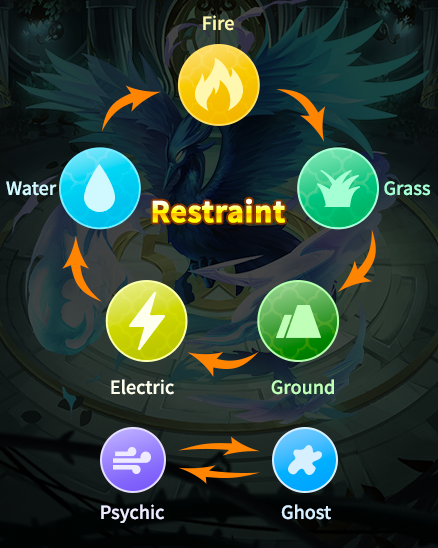
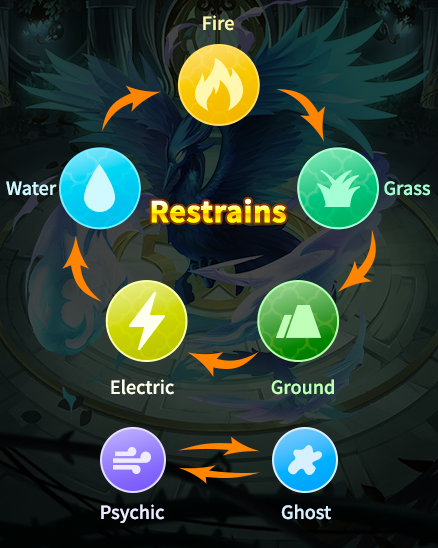
GitBook: [#192] No subject

Changed region(s): [[0.3265, 0.3412, 0.653, 0.4343]]

diff --git a/elf-gallery/feature-information.md b/elf-gallery/feature-information.md
@@ -1,7 +1,7 @@
 # Feature Information
 
-Elf is a new species of NFT based on the ERC-721 protocol. Some elves live in harmony with humans, and some live in the mountains. One of their main characteristics is that they can be subdued by elfball so that they can be carried with them. The exact number of elves is unknown, there are hundreds of species currently known, and more elves will be discovered in the future. Each kind of elf can hatch more than one according to the ID number.
+Elves are a new species of NFT based on the ERC-721 protocol. Some elves live in harmony with humans, others inhabit the mountains and wilderness, and one of their main features is that they can be taken in by an Elfball, allowing them to be carried around with them. The exact number of elves is unknown. There are several hundred known species, and more will be discovered in the future.&#x20;
 
-When the Elf World was first released, a total of 8,000 creation elves will be generated in the form of blind boxes. In addition, 1,000 creation elves can be captured in the wild adventure, and the rest of the elves are all hatched from the 9,000 creation elves.
+Each type of elf can be hatched multiple times based on ID number, and a total of 8000 Creation Elves will be generated in the form of a blind box at the first release of Elfworld. In addition, 1000 Creation Elves can be captured in Wild Adventure, and the rest of the elves are all hatched by these 9000 Creation Elves.
 
-Each elf includes gender, type, stat, ability, rarity and egg group to which it belongs.
+Each elf includes features such as gender, attributes, general abilities, characteristics, rarity, and egg groups to which it belongs.

diff --git a/elf-gallery/type.md b/elf-gallery/type.md
@@ -1,11 +1,11 @@
 # Type
 
-Elves are divided into seven attributes based on their characteristics.
+Elves are divided into 7 type according to their features.
 
-The 7 properties are as follows: Ground, Fire, Water, Grass, Electric, Psychic, Ghost
+The 7 type are as follows.: Ground, Fire, Water, Grass, Electric, Psychic, Ghost
 
-There is a relationship between the attributes of restraint and resistance. If you use your ability's stats to control your opponent's pokemon stats, you will deal more damage, and less damage if you are resisted. Ineffective attacks do no damage.
+There is a restraint and resistance relationship between attributes. If the attribute of the skill used restrains the attribute of the opponent elf, it will cause more damage, and if it is resisted by the opponent, the damage will be less. Invalid attacks are even less able to bring damage.
 
-The amount of damage a wisp deals when it uses a move with the same stats as its own is higher.
+When an elf uses a move with the same attributes as its own, the damage dealt will be higher.
 
 ![](<../.gitbook/assets/Type Restraint.png>)
